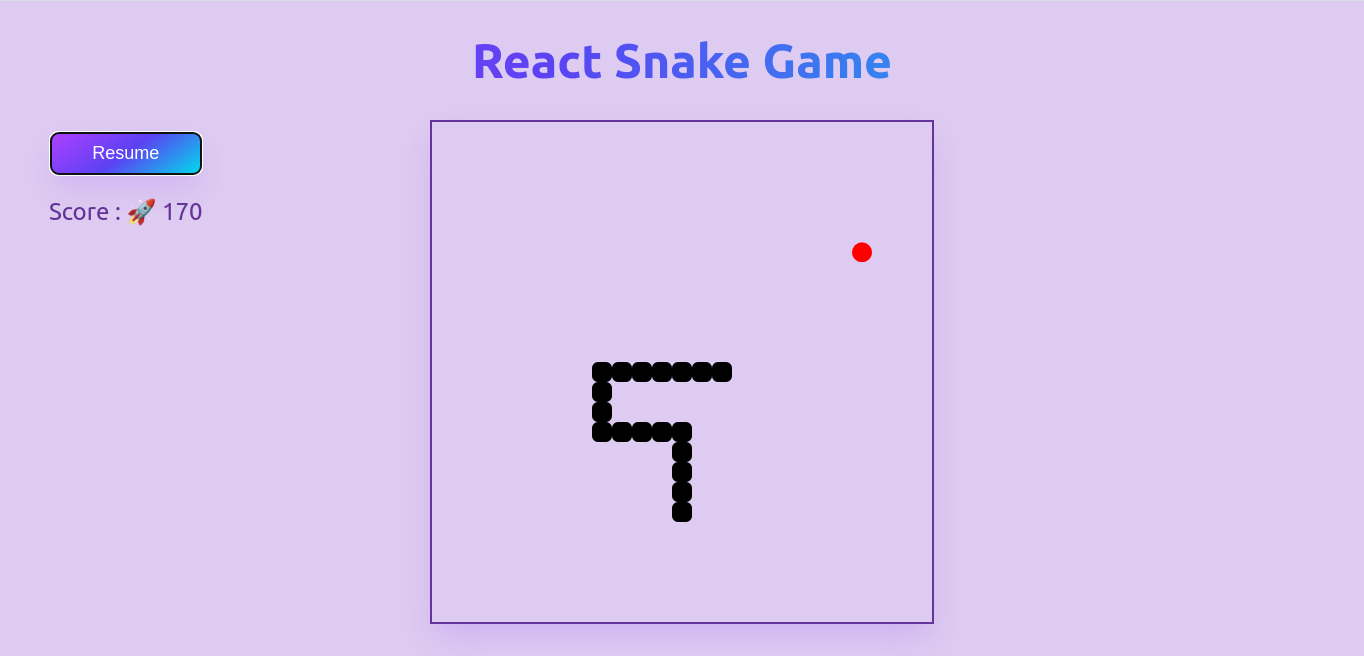
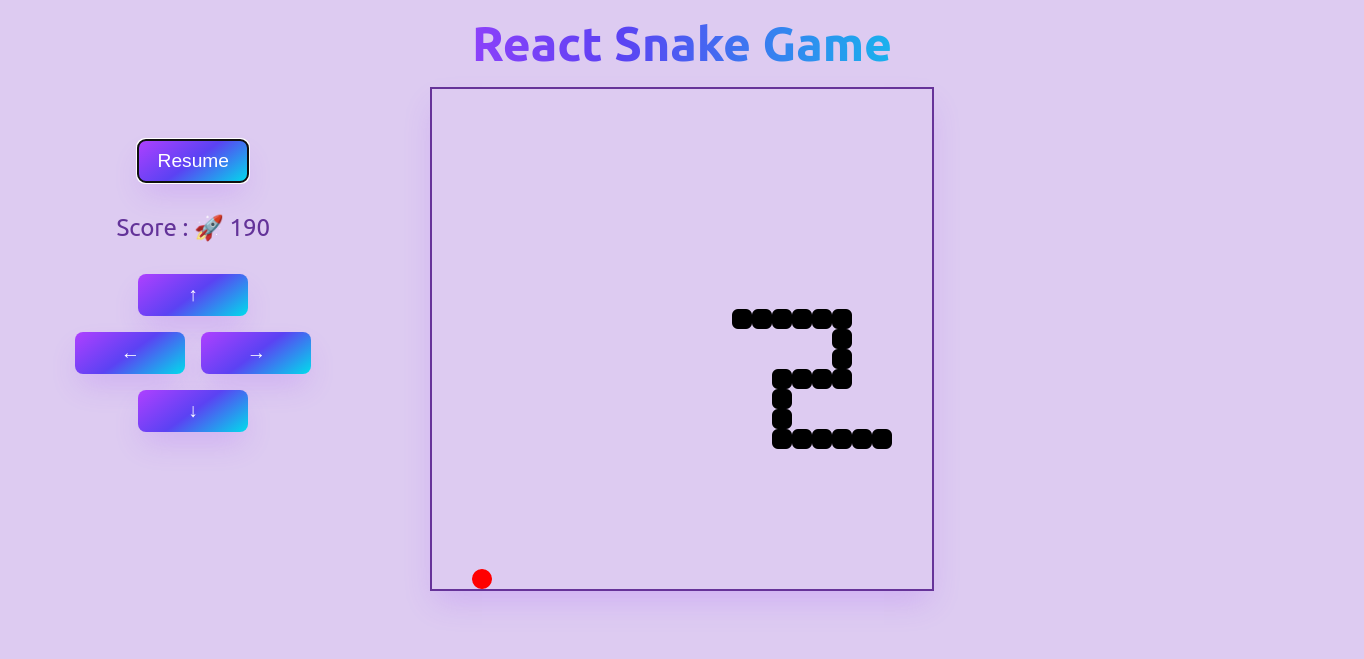
added button to change snake dir. ans style for mobile.

diff --git a/src/App.js b/src/App.js
@@ -18,7 +18,7 @@ const App = () => {
   const [direction, setDirection] = useState(INITIAL_DIRECTION);
   const [food, setFood] = useState(generateFood());
   const [gameOver, setGameOver] = useState(false);
-  const [isPass, setIsPass] = useState(false);
+  const [isPause, setIsPause] = useState(false);
   const [score, setScore] = useState(0);
 
   const checkCollision = (snake) => {
@@ -42,7 +42,7 @@ const App = () => {
   };
 
   useEffect(() => {
-    if (!gameOver && !isPass) {
+    if (!gameOver && !isPause) {
       const moveSnake = () => {
         const newSnake = snake.map((segment) => ({ ...segment }));
 
@@ -87,7 +87,7 @@ const App = () => {
         clearInterval(gameInterval);
       };
     }
-  }, [snake, direction, food, gameOver, isPass, score]);
+  }, [snake, direction, food, gameOver, isPause, score]);
 
   useEffect(() => {
     const handleKeyPress = (e) => {
@@ -136,8 +136,14 @@ const App = () => {
         </div>
       )}
       <div className='control'>
-        <button onClick={() => { setIsPass(!isPass) }}> {isPass ? 'Resume' : 'Pass'}</button>
+        <button onClick={() => { setIsPause(!isPause) }}> {isPause ? 'Resume' : 'Pause'}</button>
         <p> Score : 🚀 {score}</p>
+        <div className='button'>
+          <button className="up" onClick={() => setDirection('UP')} >↑</button><br />
+          <button className="left" onClick={() => setDirection('LEFT')} >←</button>
+          <button className="right" onClick={() => setDirection('RIGHT')}>→</button><br />
+          <button className="down" onClick={() => setDirection('DOWN')}>↓</button>
+        </div>
       </div>
     </div>
   );

diff --git a/src/App.css b/src/App.css
@@ -49,8 +49,8 @@ h1 {
   background-color: rgb(255, 0, 0);
 }
 
-button {
-  align-items: center;
+button  {
+  align-items: center;  
   background-image: linear-gradient(144deg,#AF40FF, #5B42F3 50%,#00DDEB);
   border: 0;
   border-radius: 8px;
@@ -58,13 +58,15 @@ button {
   box-sizing: border-box;
   color: #FFFFFF;
   font-family: Phantomsans, sans-serif;
-  font-size: 1rem;
+  font-size: 1.2rem;
   padding: 10px 15px;
+  margin: 0.5rem;
   user-select: none;
   -webkit-user-select: none;
   touch-action: manipulation;
   white-space: nowrap;
   cursor: pointer;
+  min-width: 110px;
 }
 
 button:active,
@@ -72,12 +74,12 @@ button:hover {
   outline: 0;
 }
 
-@media (min-width: 500px) {
-  button {
-    font-size: 18px;
-    min-width: 150px;
+@media (max-width: 800px) {
+  .control {
+    transform: translate(50%,140%);
   }
 }
+
 
 .dialog {
   justify-content: center;
@@ -97,7 +99,7 @@ button:hover {
 }
 
 .control {
- position: fixed;
- top : 20%;
- left: 50px;
+  position: fixed;
+  top: 20%;
+  left: 5%;
 }

diff --git a/README.md b/README.md
@@ -1,6 +1,6 @@
 # Snake game using Reactjs.
 
-- Use the keys UP, DOWN, RIGHT, and LEFT to make the snake grow longer.
+- Use the (keys/Buttons) UP, DOWN, RIGHT, and LEFT to make the snake grow longer.
 - You can't stop the snake or make it go backwards.
 - The game ends when the snake into itself.
 - The goal is to make the snake as large as possible before that happens.
